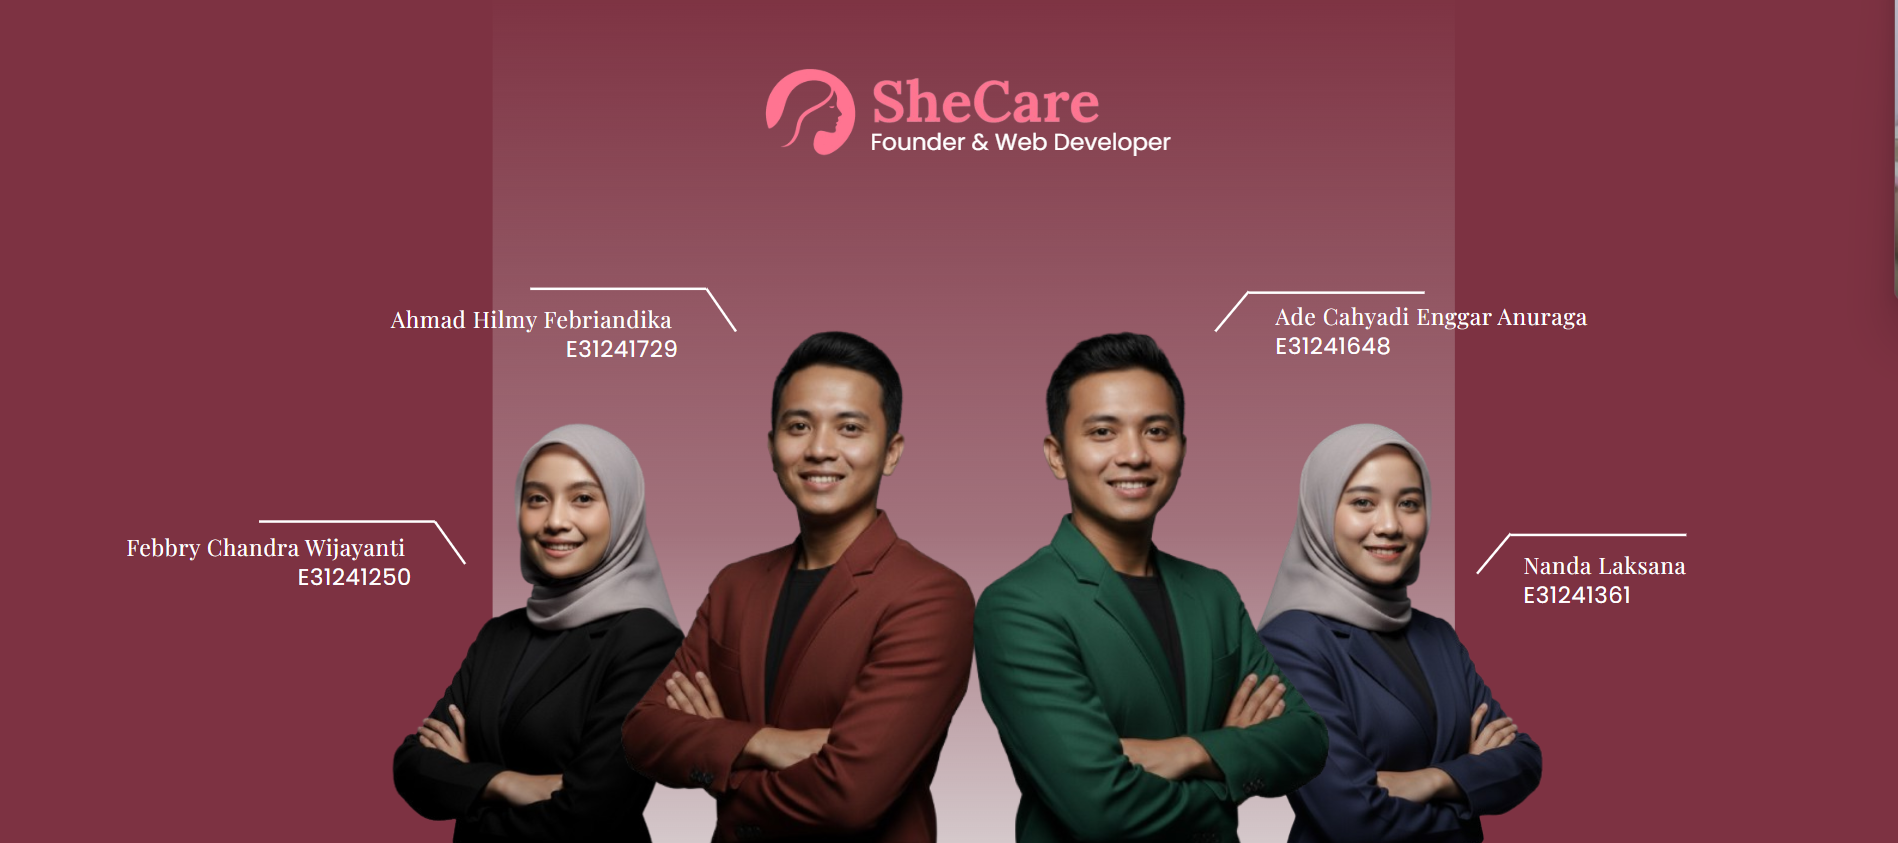
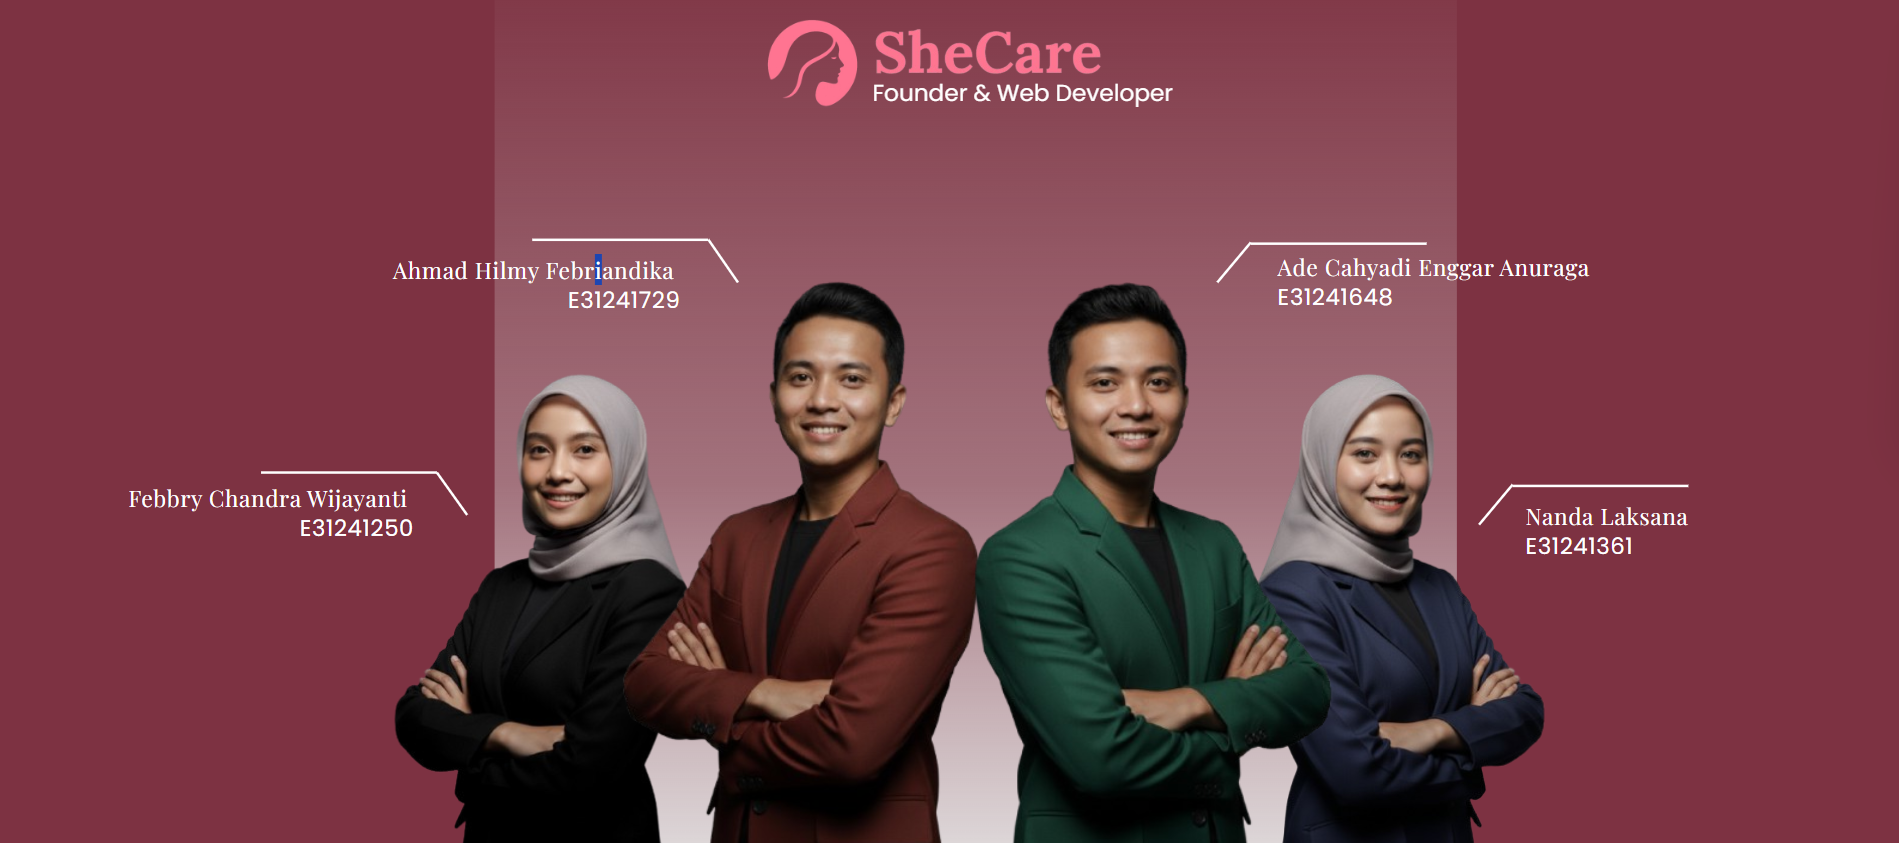
git add

Changed region(s): [[0.0622, 0.2776, 0.9015, 1.0], [0.4041, 0.0, 0.6217, 0.1851], [0.9947, 0.0, 1.0, 0.3701]]

diff --git a/src/components/TeamSection.tsx b/src/components/TeamSection.tsx
@@ -1,64 +1,41 @@
-import logoIcon from '@/assets/logo-icon.png';
-import teamPhoto from '@/assets/team-photo.png';
+import logoIcon from "@/assets/logo-icon.png";
+import teamPhoto from "@/assets/team-photo.png";
 
 const TeamSection = () => {
   const teamMembers = [
     {
-      name: 'Ahmad Hilmy Febriandika',
-      id: 'E31241729',
-      position: 'left-top',
+      name: "Ahmad Hilmy Febriandika",
+      id: "E31241729",
+      position: "left-top",
     },
     {
-      name: 'Febbry Chandra Wijayanti',
-      id: 'E31241250',
-      position: 'left-bottom',
+      name: "Febbry Chandra Wijayanti",
+      id: "E31241250",
+      position: "left-bottom",
     },
     {
-      name: 'Ade Cahyadi Enggar Anuraga',
-      id: 'E31241648',
-      position: 'right-top',
+      name: "Ade Cahyadi Enggar Anuraga",
+      id: "E31241648",
+      position: "right-top",
     },
     {
-      name: 'Nanda Laksana',
-      id: 'E31241361',
-      position: 'right-bottom',
+      name: "Nanda Laksana",
+      id: "E31241361",
+      position: "right-bottom",
     },
   ];
 
   return (
     <section id="tim" className="py-20 bg-maroon text-white">
       <div className="container mx-auto px-4 sm:px-6 lg:px-8">
-        {/* Header */}
-        <div className="text-center mb-12">
-          <div className="flex items-center justify-center space-x-3 mb-4">
-            <img src={logoIcon} alt="SheCare Logo" className="w-12 h-12" />
-            <h2 className="text-4xl md:text-5xl font-bold text-accent">SheCare</h2>
-          </div>
-          <p className="text-xl text-white/90">Founder & Web Developer</p>
-        </div>
-
         {/* Team Photo */}
-        <div className="max-w-6xl mx-auto">
+        <div className=" mx-auto">
           <div className="relative rounded-3xl overflow-hidden shadow-2xl">
-            <img 
-              src={teamPhoto} 
-              alt="SheCare Team" 
+            <img
+              src={teamPhoto}
+              alt="SheCare Team"
               className="w-full h-auto object-cover"
             />
-          </div>
-
-          {/* Team Members Info - Optional overlay or below */}
-          <div className="grid grid-cols-1 md:grid-cols-2 lg:grid-cols-4 gap-6 mt-12">
-            {teamMembers.map((member, index) => (
-              <div
-                key={index}
-                className="bg-white/10 backdrop-blur-sm rounded-2xl p-6 text-center hover:bg-white/20 transition-all duration-300 animate-fade-in"
-                style={{ animationDelay: `${index * 100}ms` }}
-              >
-                <h3 className="text-lg font-semibold mb-2">{member.name}</h3>
-                <p className="text-accent text-sm">{member.id}</p>
-              </div>
-            ))}
           </div>
         </div>
       </div>
